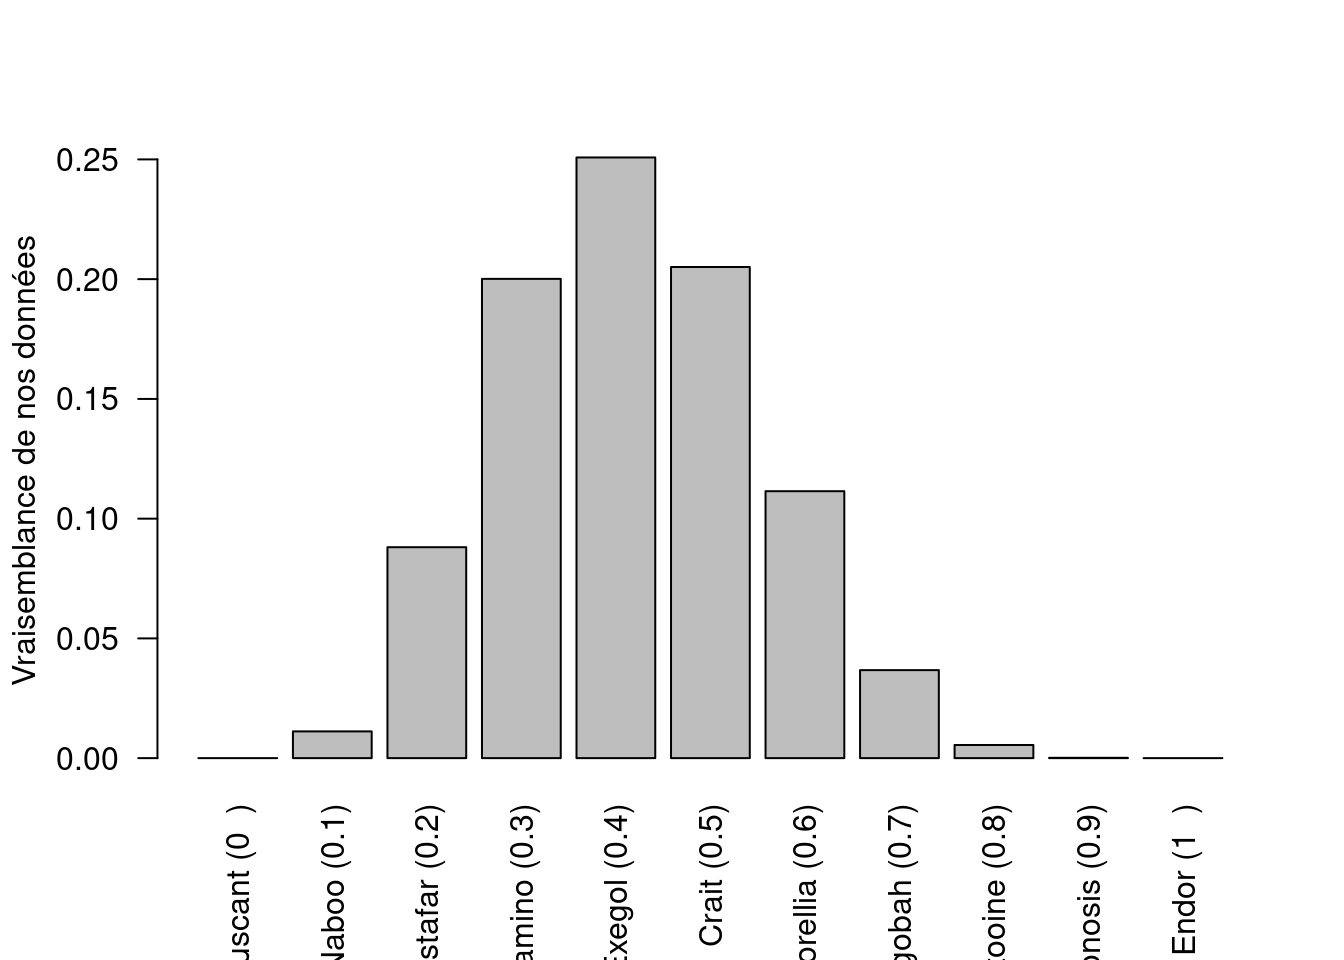
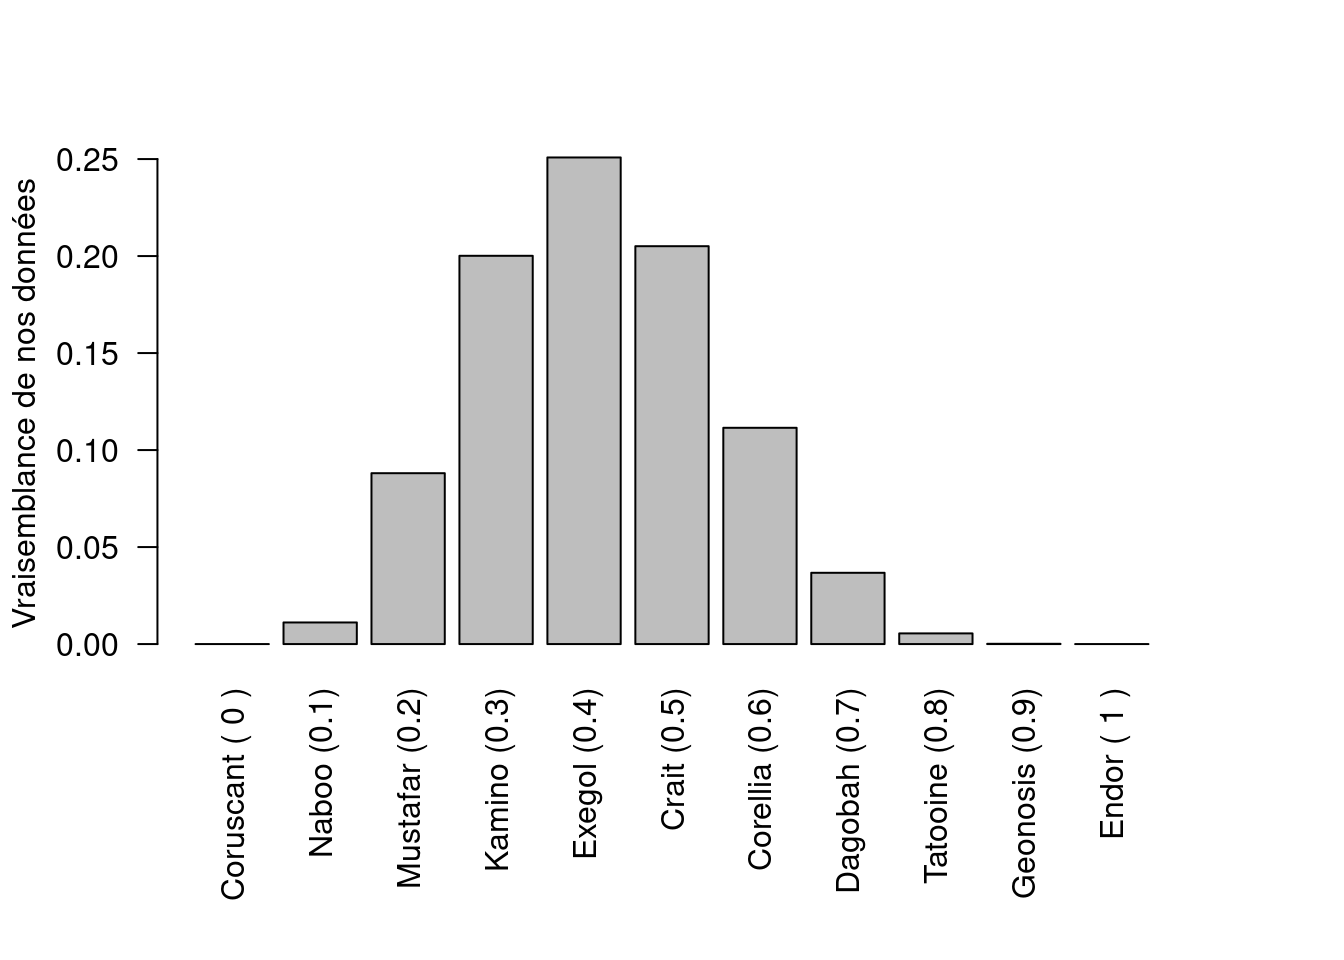
vraisemblance ok pour publi

diff --git a/docs/articles/vraisemblance/index.html b/docs/articles/vraisemblance/index.html
@@ -213,12 +213,12 @@ window.Quarto = {
 <section id="un-atterrissage-forcé" class="level3">
 <h3 class="anchored" data-anchor-id="un-atterrissage-forcé">Un atterrissage forcé</h3>
 <p>Suite à un problème technique, notre navette spatiale doit s’arrêter en urgence sur la planète la plus proche. Un rapide examen de l’ordinateur de bord indique que c’est le système de localisation qui est tombé en panne. Malheureusement, c’est impossible de repartir sans lui. Nous sommes cloués au sol, sans savoir sur quelle planète nous venons d’atterrir.</p>
-<p>Notre capitaine de bord n’est pas trop inquiet, il s’empresse d’appeler l’assistance remorquage spatial, qui viendra sans aucun doute nous chercher d’ici quelques jours au plus tard. Mais sa confiance retombe vite : l’assistance lui demande le nom de la planète sur laquelle nous nous trouvons, sans quoi elle ne pourra jamais réussir à nous localiser.</p>
+<p>Notre capitaine de bord n’est pas trop inquiet, il s’empresse d’appeler l’assistance remorquage spatial qui viendra, sans aucun doute, nous chercher d’ici quelques jours au plus tard. Mais sa confiance retombe vite : l’assistance lui demande le nom de la planète sur laquelle nous nous trouvons, sans quoi elle ne pourra jamais réussir à nous localiser.</p>
 <p>Nous sommes bel et bien coincés ici.</p>
 </section>
 <section id="des-roses-rouges-des-roses-blanches" class="level3">
 <h3 class="anchored" data-anchor-id="des-roses-rouges-des-roses-blanches">Des roses rouges, des roses blanches</h3>
-<p>C’est alors la botaniste de l’équipe a une idée. Il existe sur chaque planète de la galaxie une espèce de rose rouge, mais dont certaines fleurs sont entièrement blanches. Ce qui est intéressant, c’est que chaque planète possède une proportion de fleurs blanches qui lui est propre.</p>
+<p>C’est alors que la botaniste de l’équipe a une idée. Il existe sur chaque planète de la galaxie une espèce de rose rouge, mais dont certaines fleurs sont entièrement blanches. Ce qui est intéressant, c’est que chaque planète possède une proportion de fleurs blanches qui lui est propre.</p>
 <p>En botaniste confirmée, notre coéquipière promène toujours dans son sac un gros livre sur les plantes à fleurs de la galaxie. Et dans son livre est inscrite la liste de toutes les planètes du système avec pour chacune d’entre elles la proportion de fleurs blanches chez notre espèce de rose.</p>
 </section>
 <section id="nos-données-un-bouquet-de-roses" class="level3">
@@ -262,7 +262,7 @@ window.Quarto = {
 </section>
 <section id="dautres-théories" class="level3">
 <h3 class="anchored" data-anchor-id="dautres-théories">D’autres théories</h3>
-<p>Ne nous avouons pas vaincus ! Même si nos données ne sont pas vraisemblables avec notre première théorie, nous avons plein d’autres théories à tester. Rappelez vous, grâce au libre de botanique, nous connaissons les proportions de fleurs blanches pour chaque planète de la galaxie.</p>
+<p>Ne nous avouons pas vaincus ! Même si nos données ne sont pas vraisemblables avec notre première théorie, nous avons plein d’autres théories à tester. Rappelez-vous, grâce au livre de botanique, nous connaissons les proportions de fleurs blanches pour chaque planète de la galaxie.</p>
 <p>Commençons par rentrer dans <span class="math inline">\(\textsf{R}\)</span> chacune des planètes de la liste et la proportion de fleurs blanches associée :</p>
 <div class="cell">
 <div class="sourceCode cell-code" id="cb6"><pre class="sourceCode r code-with-copy"><code class="sourceCode r"><span id="cb6-1"><a href="#cb6-1" aria-hidden="true" tabindex="-1"></a>Coruscant <span class="ot">=</span> <span class="dv">0</span></span>
@@ -302,6 +302,9 @@ window.Quarto = {
 <pre><code> [1] 0.0 0.1 0.2 0.3 0.4 0.5 0.6 0.7 0.8 0.9 1.0</code></pre>
 </div>
 </div>
+</section>
+<section id="alors-où-sommes-nous" class="level3">
+<h3 class="anchored" data-anchor-id="alors-où-sommes-nous">Alors ? Où sommes nous ?</h3>
 <p>Il ne nous reste qu’à calculer les vraisemblances pour toutes les théories :</p>
 <div class="cell">
 <div class="sourceCode cell-code" id="cb10"><pre class="sourceCode r code-with-copy"><code class="sourceCode r"><span id="cb10-1"><a href="#cb10-1" aria-hidden="true" tabindex="-1"></a>likelihoods <span class="ot">=</span> <span class="fu">dbinom</span>(</span>
@@ -312,9 +315,9 @@ window.Quarto = {
 </div>
 <p>Le résultat est une suite de vraisemblances. Chaque valeur représente la probabilité de récolter un échantillon comme le notre (de 4 fleurs blanches sur 10 fleurs récoltées) en fonction de la planète sur laquelle on se trouve. Plus la probabilité est grande, plus on a de chance que notre échantillon soit issu de la planète.</p>
 <div class="cell">
-<div class="sourceCode cell-code" id="cb11"><pre class="sourceCode r code-with-copy"><code class="sourceCode r"><span id="cb11-1"><a href="#cb11-1" aria-hidden="true" tabindex="-1"></a><span class="fu">print</span>(<span class="fu">round</span>(likelihoods, <span class="dv">3</span>))</span></code><button title="Copier dans le presse-papier" class="code-copy-button"><i class="bi"></i></button></pre></div>
+<div class="sourceCode cell-code" id="cb11"><pre class="sourceCode r code-with-copy"><code class="sourceCode r"><span id="cb11-1"><a href="#cb11-1" aria-hidden="true" tabindex="-1"></a><span class="fu">print</span>(<span class="fu">round</span>(likelihoods, <span class="dv">2</span>))</span></code><button title="Copier dans le presse-papier" class="code-copy-button"><i class="bi"></i></button></pre></div>
 <div class="cell-output cell-output-stdout">
-<pre><code> [1] 0.000 0.011 0.088 0.200 0.251 0.205 0.111 0.037 0.006 0.000 0.000</code></pre>
+<pre><code> [1] 0.00 0.01 0.09 0.20 0.25 0.21 0.11 0.04 0.01 0.00 0.00</code></pre>
 </div>
 </div>
 <p>Bon, pour y voir plus clair, faisons un graphique !</p>
@@ -327,6 +330,7 @@ window.Quarto = {
 </div>
 </div>
 </div>
+<p>Avec ce graphique on voit bien que la probabilité d’avoir récolté un échantillon de roses semblable au nôtre est la plus élevée si nous sommes sur Exegol. Nous pouvons donner cette information à l’assistance remorquage spatial ! On peut également leur transmettre l’information que la probabilité d’avoir un échantillon semblable au notre est assez élevée sur Kamino et Crait. Par contre la vraissemblance de nos données selon la théorie que l’on soit sur Coruscant ou Endor est nulle. Pas la peine que l’assistance nous cherche sur ces deux planètes !</p>
 
 
 </section>

diff --git a/docs/articles.html b/docs/articles.html
@@ -169,7 +169,7 @@ window.Quarto = {
 <!-- margin-sidebar -->
     <div id="quarto-margin-sidebar" class="sidebar margin-sidebar">
         
-    <h5 class="quarto-listing-category-title">Catégories</h5><div class="quarto-listing-category category-default"><div class="category" data-category="">Toutes <span class="quarto-category-count">(2)</span></div><div class="category" data-category="informatique">informatique <span class="quarto-category-count">(1)</span></div><div class="category" data-category="linux">linux <span class="quarto-category-count">(1)</span></div><div class="category" data-category="statistiques">statistiques <span class="quarto-category-count">(1)</span></div></div></div>
+    <h5 class="quarto-listing-category-title">Catégories</h5><div class="quarto-listing-category category-default"><div class="category" data-category="">Toutes <span class="quarto-category-count">(2)</span></div><div class="category" data-category="Informatique">Informatique <span class="quarto-category-count">(1)</span></div><div class="category" data-category="Linux">Linux <span class="quarto-category-count">(1)</span></div><div class="category" data-category="Statistiques">Statistiques <span class="quarto-category-count">(1)</span></div></div></div>
 <!-- main -->
 <main class="content column-page-left" id="quarto-document-content">
 
@@ -198,10 +198,10 @@ window.Quarto = {
 
 <div class="quarto-listing quarto-listing-container-default" id="listing-listing">
 <div class="list quarto-listing-default">
-<div class="quarto-post image-right" data-index="0" data-categories="statistiques" data-listing-date-sort="1711166400000" data-listing-file-modified-sort="1710127601388" data-listing-date-modified-sort="NaN" data-listing-reading-time-sort="5" data-listing-word-count-sort="996">
+<div class="quarto-post image-right" data-index="0" data-categories="Statistiques" data-listing-date-sort="1711166400000" data-listing-file-modified-sort="1710206209600" data-listing-date-modified-sort="NaN" data-listing-reading-time-sort="6" data-listing-word-count-sort="1096">
 <div class="thumbnail">
 <p><a href="./articles/vraisemblance/index.html" class="no-external"></a></p><a href="./articles/vraisemblance/index.html" class="no-external">
-<p class="card-img-top"><img src="articles/vraisemblance/index_files/figure-html/unnamed-chunk-10-1.png"  class="thumbnail-image card-img"/></p>
+<p><img src="./articles/vraisemblance/vraisemblance.png" class="thumbnail-image"></p>
 </a><p><a href="./articles/vraisemblance/index.html" class="no-external"></a></p>
 </div>
 <div class="body">
@@ -212,8 +212,8 @@ window.Quarto = {
 <a href="./articles/vraisemblance/index.html" class="no-external"></a>
 </div>
 <div class="listing-categories">
-<div class="listing-category" onclick="window.quartoListingCategory('statistiques'); return false;">
-statistiques
+<div class="listing-category" onclick="window.quartoListingCategory('Statistiques'); return false;">
+Statistiques
 </div>
 </div>
 <div class="listing-description">
@@ -231,10 +231,10 @@ Lucas
 </a>
 </div>
 </div>
-<div class="quarto-post image-right" data-index="1" data-categories="informatique,linux" data-listing-date-sort="1708664400000" data-listing-file-modified-sort="1708916910967" data-listing-date-modified-sort="1708837200000" data-listing-reading-time-sort="4" data-listing-word-count-sort="798">
+<div class="quarto-post image-right" data-index="1" data-categories="Informatique,Linux" data-listing-date-sort="1708664400000" data-listing-file-modified-sort="1710206210664" data-listing-date-modified-sort="1708837200000" data-listing-reading-time-sort="4" data-listing-word-count-sort="798">
 <div class="thumbnail">
 <p><a href="./articles/essayer-linux/index.html" class="no-external"></a></p><a href="./articles/essayer-linux/index.html" class="no-external">
-<p class="card-img-top"><img src="articles/essayer-linux/distrosea.png"  class="thumbnail-image card-img"/></p>
+<p><img src="./articles/essayer-linux/distributions.png" class="thumbnail-image"></p>
 </a><p><a href="./articles/essayer-linux/index.html" class="no-external"></a></p>
 </div>
 <div class="body">
@@ -245,11 +245,11 @@ Lucas
 <a href="./articles/essayer-linux/index.html" class="no-external"></a>
 </div>
 <div class="listing-categories">
-<div class="listing-category" onclick="window.quartoListingCategory('informatique'); return false;">
-informatique
+<div class="listing-category" onclick="window.quartoListingCategory('Informatique'); return false;">
+Informatique
 </div>
-<div class="listing-category" onclick="window.quartoListingCategory('linux'); return false;">
-linux
+<div class="listing-category" onclick="window.quartoListingCategory('Linux'); return false;">
+Linux
 </div>
 </div>
 <div class="listing-description">

diff --git a/docs/articles/essayer-linux/index.html b/docs/articles/essayer-linux/index.html
@@ -110,8 +110,8 @@ ul.task-list li input[type="checkbox"] {
     <div class="quarto-title column-body">
       <h1 class="title">Essayer Linux</h1>
                                 <div class="quarto-categories">
-                <div class="quarto-category">informatique</div>
-                <div class="quarto-category">linux</div>
+                <div class="quarto-category">Informatique</div>
+                <div class="quarto-category">Linux</div>
               </div>
                   </div>
   </div>
